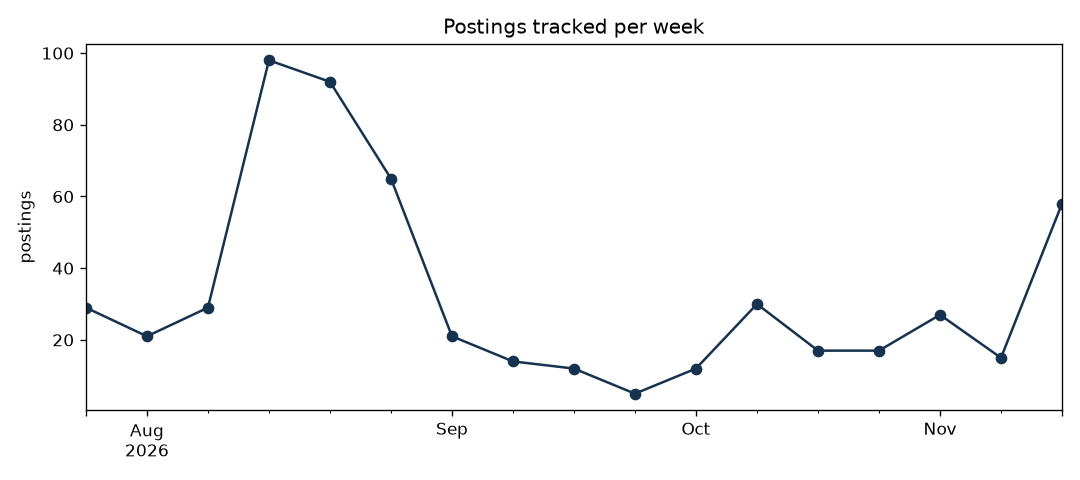
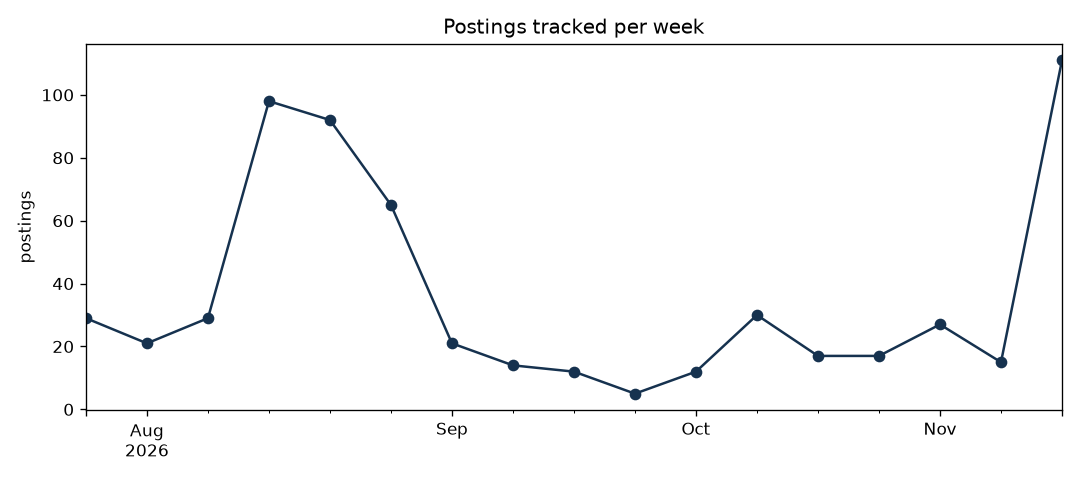
Daily data update

diff --git a/README.md b/README.md
@@ -13,14 +13,14 @@ reporting end to end.
 ## Dashboard
 
 <!-- dashboard:start -->
-*Last updated: 2026-11-20 20:55 UTC*
+*Last updated: 2026-11-21 19:56 UTC*
 
 | | |
 |---|---|
-| Postings tracked | 562 |
-| Companies | 449 |
-| New since last run | 50 |
-| Data/ML-related share | 30% |
+| Postings tracked | 615 |
+| Companies | 466 |
+| New since last run | 53 |
+| Data/ML-related share | 28% |
 
 ![Postings per week](reports/figures/postings_per_week.png)
 
